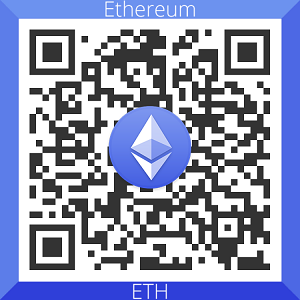
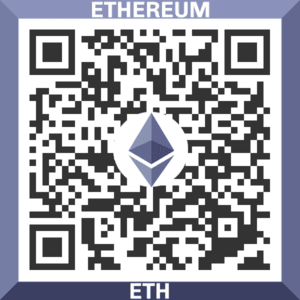
Updated donation QR codes

diff --git a/DONATE.md b/DONATE.md
@@ -7,8 +7,8 @@ I'd love to have your help improving this project, and you are more than welcome
 Alternatively, you can donate using the options below.   
 
 ## Bitcoin ##
-![bitcoin QR code](img/Bitcoin_QR_Code.png)
+![bitcoin QR code](img/300_Bitcoin_QR_code.png)
 #### 3PSfxCvDbGC5Bu9s5SGgYZAoNQFBzmMuPf ####
 ## Ethereum ##
-![ether QR code](img/Ethereum_QR_Code.png)
+![ether QR code](img/300_Ethereum_QR_code.png)
 #### 0x86fbe730b6c39BA5afE06DD2B56A92250b49067B ####
